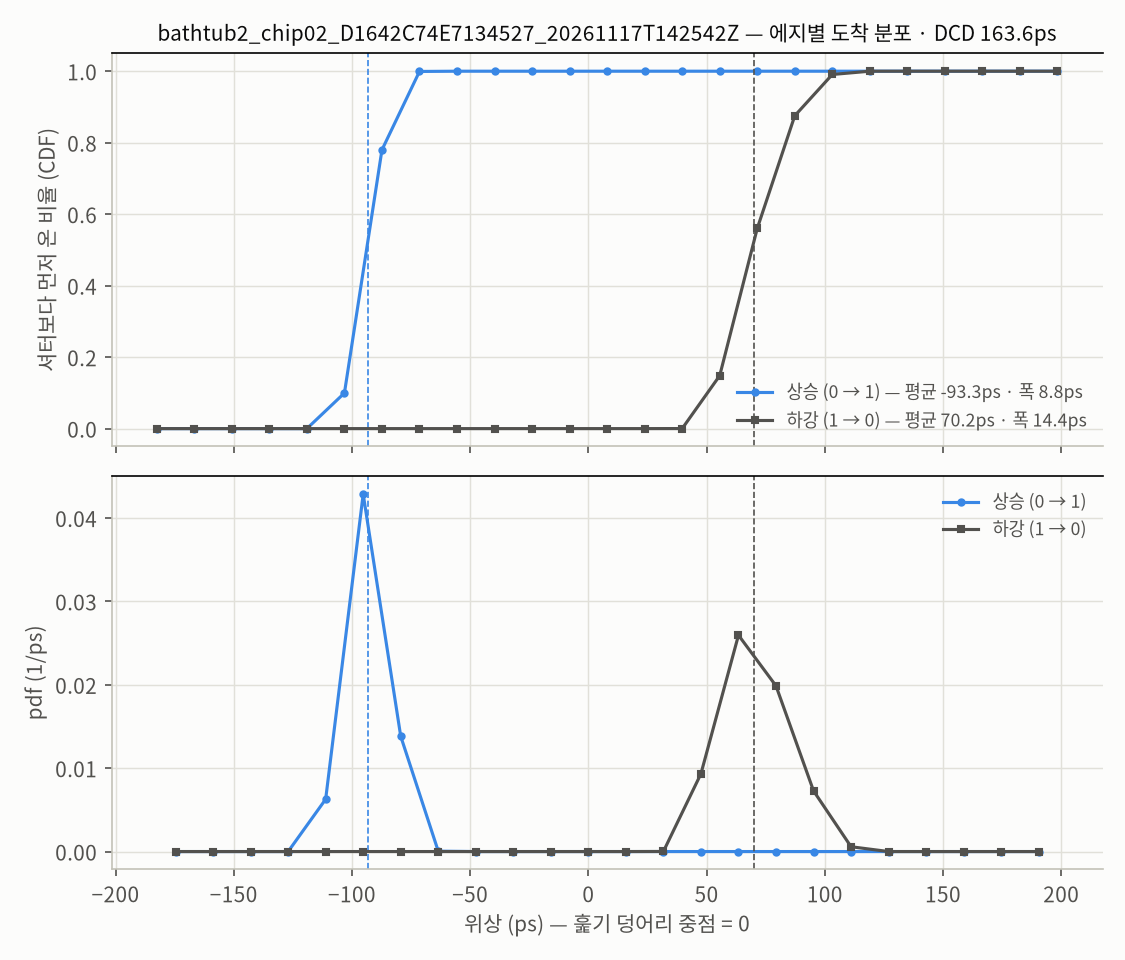
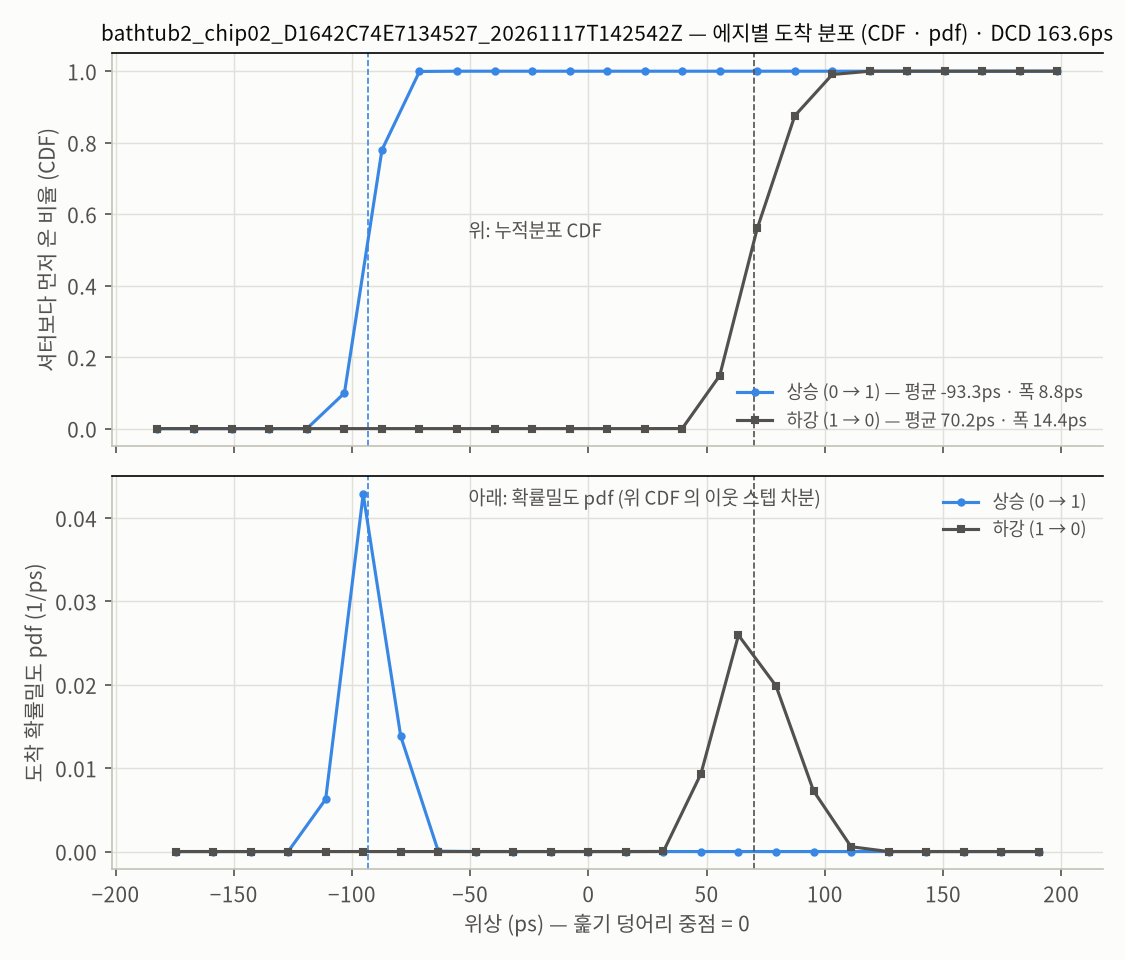
fix(analysis): 욕조 v2 에지 그림에 CDF · pdf 를 글로 밝힘 — 제목 「(CDF · pdf)」, 위 「누적분포 CDF」 · 아래 「확률밀도 pdf (위 CDF 의 이웃 스텝 차분)」, 세로축 「도착 확률밀도 pdf」. 승격 그림 다시 그림 (2026-11-18)

diff --git a/host/analysis/bathtub2_analysis.py b/host/analysis/bathtub2_analysis.py
@@ -271,9 +271,11 @@ def plot_edges(plt, name, summ, cv, out_png):
         for ax in (a1, a2):
             ax.axvline(mu, color=col, lw=0.8, ls="--")
     a1.set_ylabel("셔터보다 먼저 온 비율 (CDF)", color=INK2)
-    a2.set_ylabel("pdf (1/ps)", color=INK2)
+    a2.set_ylabel("도착 확률밀도 pdf (1/ps)", color=INK2)
+    a1.text(0.36, 0.55, "위: 누적분포 CDF", transform=a1.transAxes, va="center", fontsize=9, color=INK2)
+    a2.text(0.36, 0.97, "아래: 확률밀도 pdf (위 CDF 의 이웃 스텝 차분)", transform=a2.transAxes, va="top", fontsize=9, color=INK2)
     a2.set_xlabel("위상 (ps) — 훑기 덩어리 중점 = 0", color=INK2)
-    a1.set_title(f"{name} — 에지별 도착 분포 · DCD {summ['dcd_ps']:,.1f}ps", color=INK, fontsize=10)
+    a1.set_title(f"{name} — 에지별 도착 분포 (CDF · pdf) · DCD {summ['dcd_ps']:,.1f}ps", color=INK, fontsize=10)
     for ax in (a1, a2):
         leg = ax.legend(frameon=False, fontsize=8.5)
         for t in leg.get_texts():
